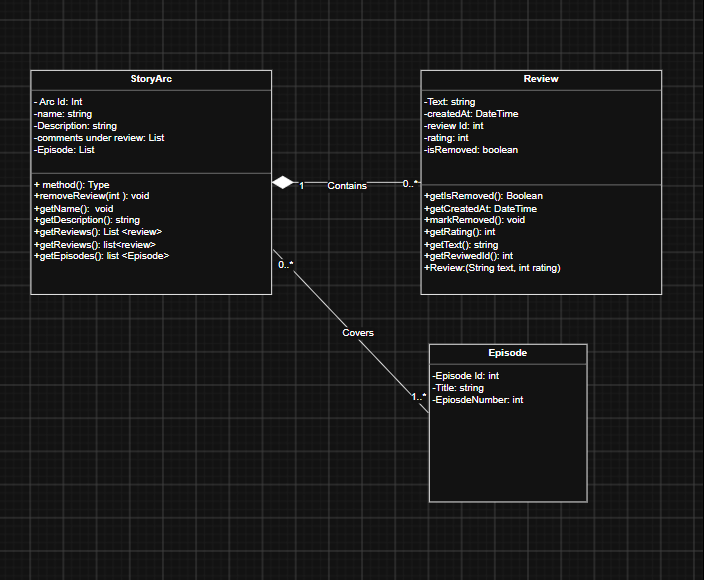
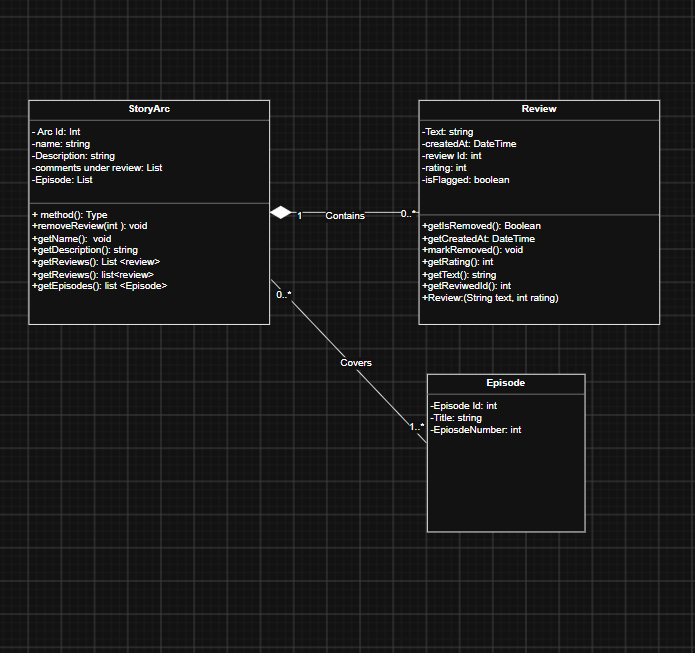
Update review flagging comments/Behavior

diff --git a/client/src/Review.js b/client/src/Review.js
@@ -16,7 +16,7 @@ export default class Review {
         //This will keep records of date and time review are created
         this.createdAt = new Date();
 
-        this.isRemoved = false;
+        this.isFlagged = false;
     }
     //this method is going to return the text of the review
     getText() {
@@ -33,11 +33,13 @@ export default class Review {
     //This method will return the date and time
     getCreatedAt() {
     }
-    getIsRemoved() {
-        return this.isRemoved;
+    //this method will see if what is asked is true to be flagged
+    getIsFlagged() {
+        return this.isFlagged;
     }
-
-    markRemoved() {
-        this.isRemoved = true;
+     //This method will mark as flagged
+     //This will be flagged for viwers to see but will be storerd 
+    markFlagged() {
+        this.isFlagged = true;
     }
 }

diff --git a/client/src/StoryArc.js b/client/src/StoryArc.js
@@ -35,11 +35,13 @@ export default class StoryArc {
     getReviews() {
     
     }
+    //This method will remove a review from the story arc based on its ID.
     removeReview(reviewId){
     if (reviewId === null) {
         return;
     }
     }
+    //This method will get the episodes of the story arc
     getEpisodes() {
     }
 }
